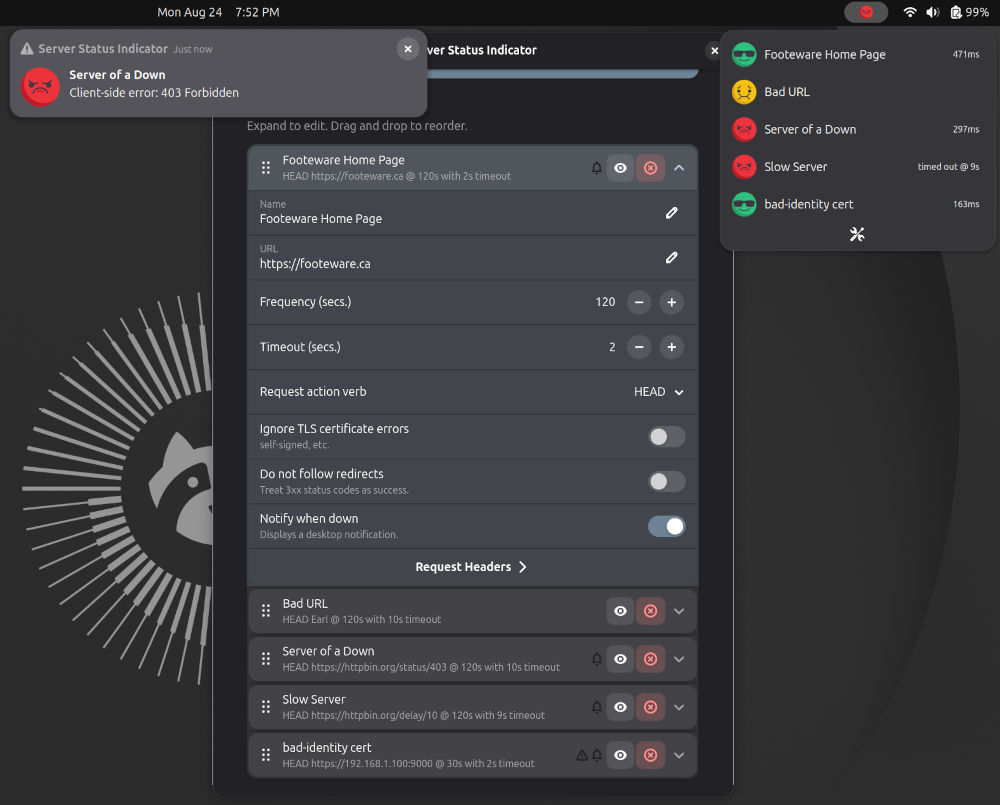
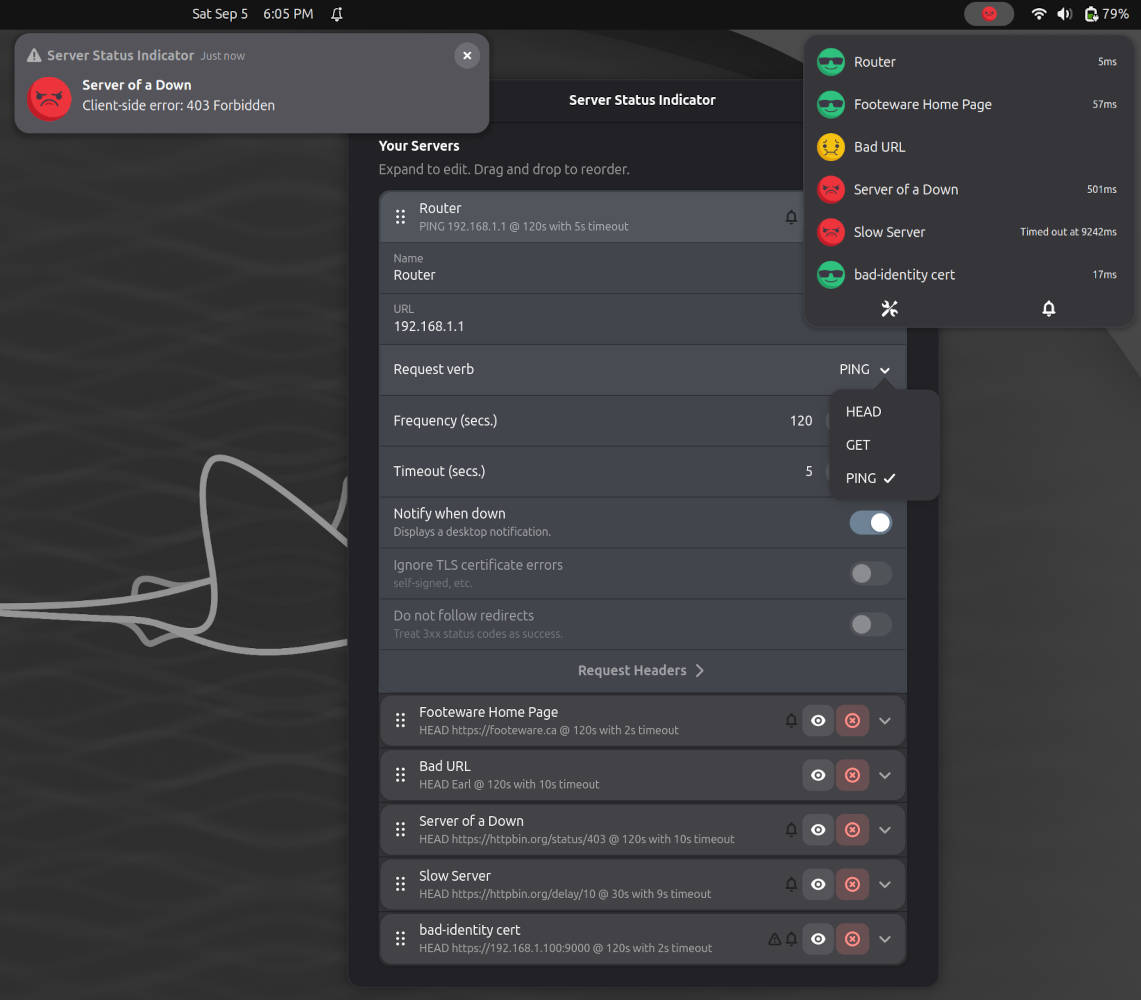
update screenshots

diff --git a/README.md b/README.md
@@ -32,7 +32,7 @@ A GNOME Shell extension with an indicator in the panel displaying status of ente
 
 - Install at [extensions.gnome.org](https://extensions.gnome.org/extension/4687/server-status-indicator/) or use [Extension Manager](https://flathub.org/en/apps/com.mattjakeman.ExtensionManager).
 
-- To customize, the four **.svg** files in the **assets** folder can be swapped out with your own icons. Just keep the same filenames.
+- To customize, the four **server-*.svg** files in the **assets** folder can be swapped out with your own icons. Just keep the same filenames.
 
 ---
 
